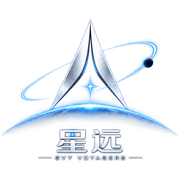
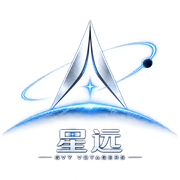
fix: refresh Xingyuan brand assets and footer alignment (#1)

diff --git a/index.html b/index.html
@@ -12,13 +12,14 @@
     <meta property="og:url" content="https://lantu.gvyvoyagers.vip/" />
     <meta property="og:title" content="星际公民蓝图查询" />
     <meta property="og:description" content="搜索武器、舰船组件、单兵装备、制作材料和任务来源。" />
-    <meta property="og:image" content="https://lantu.gvyvoyagers.vip/assets/favicon-192.png?v=29b0f33580f8" />
+    <meta property="og:image" content="https://lantu.gvyvoyagers.vip/assets/favicon-192.png?v=17f28ec0f59c" />
     <meta name="twitter:card" content="summary" />
     <title>星际公民蓝图查询</title>
     <link rel="canonical" href="https://lantu.gvyvoyagers.vip/" />
-    <link rel="icon" type="image/png" sizes="32x32" href="./assets/favicon-32.png?v=29b0f33580f8" />
-    <link rel="icon" type="image/png" sizes="192x192" href="./assets/favicon-192.png?v=29b0f33580f8" />
-    <link rel="apple-touch-icon" href="./assets/apple-touch-icon.png?v=29b0f33580f8" />
+    <link rel="icon" type="image/x-icon" href="./favicon.ico?v=17f28ec0f59c" />
+    <link rel="icon" type="image/png" sizes="32x32" href="./assets/favicon-32.png?v=17f28ec0f59c" />
+    <link rel="icon" type="image/png" sizes="192x192" href="./assets/favicon-192.png?v=17f28ec0f59c" />
+    <link rel="apple-touch-icon" href="./assets/apple-touch-icon.png?v=17f28ec0f59c" />
     <link rel="stylesheet" href="./assets/styles.css?v=build" />
   </head>
   <body>
@@ -150,7 +151,7 @@
 
       <footer class="site-footer" aria-label="站点备案与声明">
         <div class="footer-brand">
-          <img src="./assets/gvy-logo.png?v=29a1582e730a" alt="" width="34" height="34" />
+          <img src="./assets/gvy-logo.png?v=f2df3e742db8" alt="" width="34" height="34" />
           <p><strong>星远</strong><span>GALACTIC VOYAGERS / GVY</span></p>
         </div>
         <p class="footer-summary">玩家自建非商业资料站，数据仅供参考；非 Star Citizen 官方网站，相关名称、商标与素材归其权利方所有。</p>

diff --git a/assets/styles.css b/assets/styles.css
@@ -824,6 +824,7 @@ html[data-query-mode="dismantle"] .reset-button {
   width: 34px;
   height: 34px;
   object-fit: contain;
+  transform: translateY(-1px);
 }
 
 .footer-brand p {
